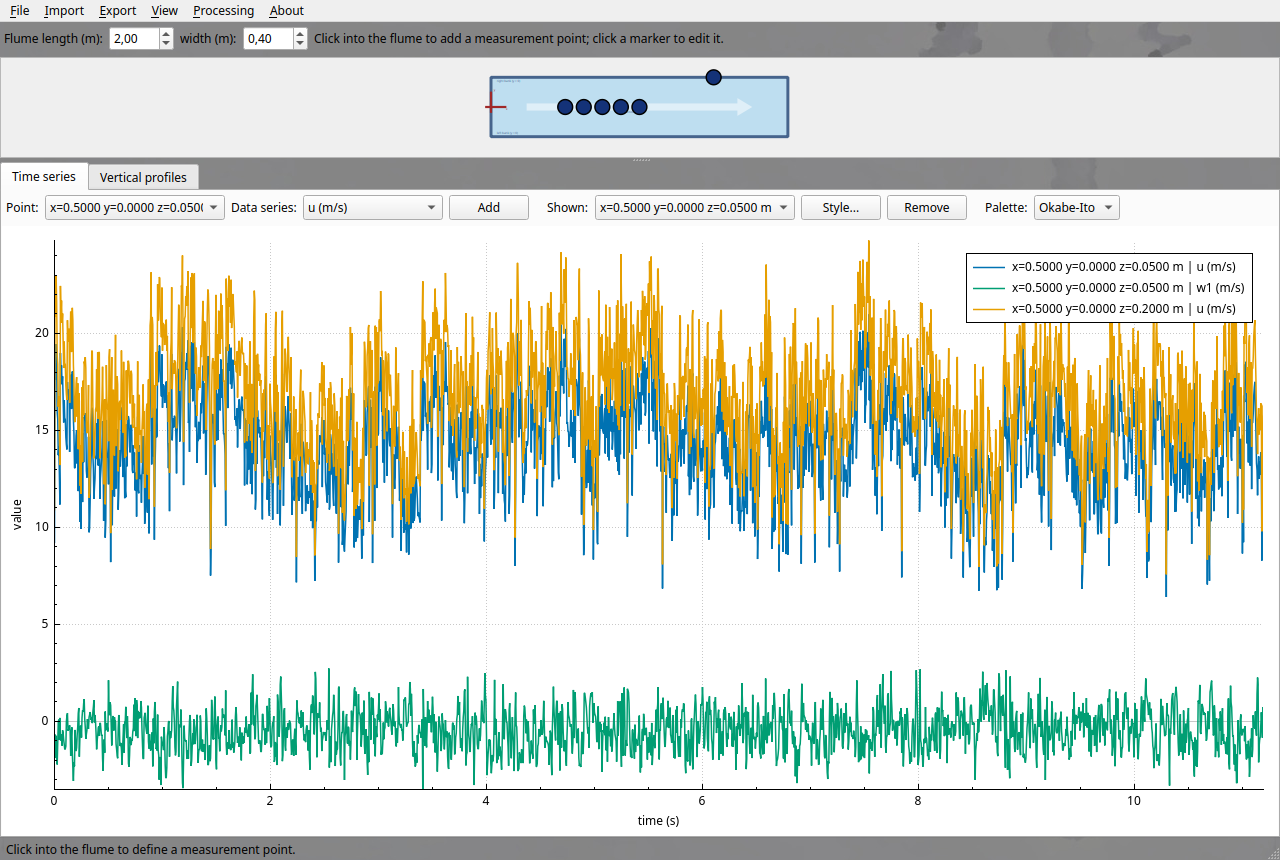
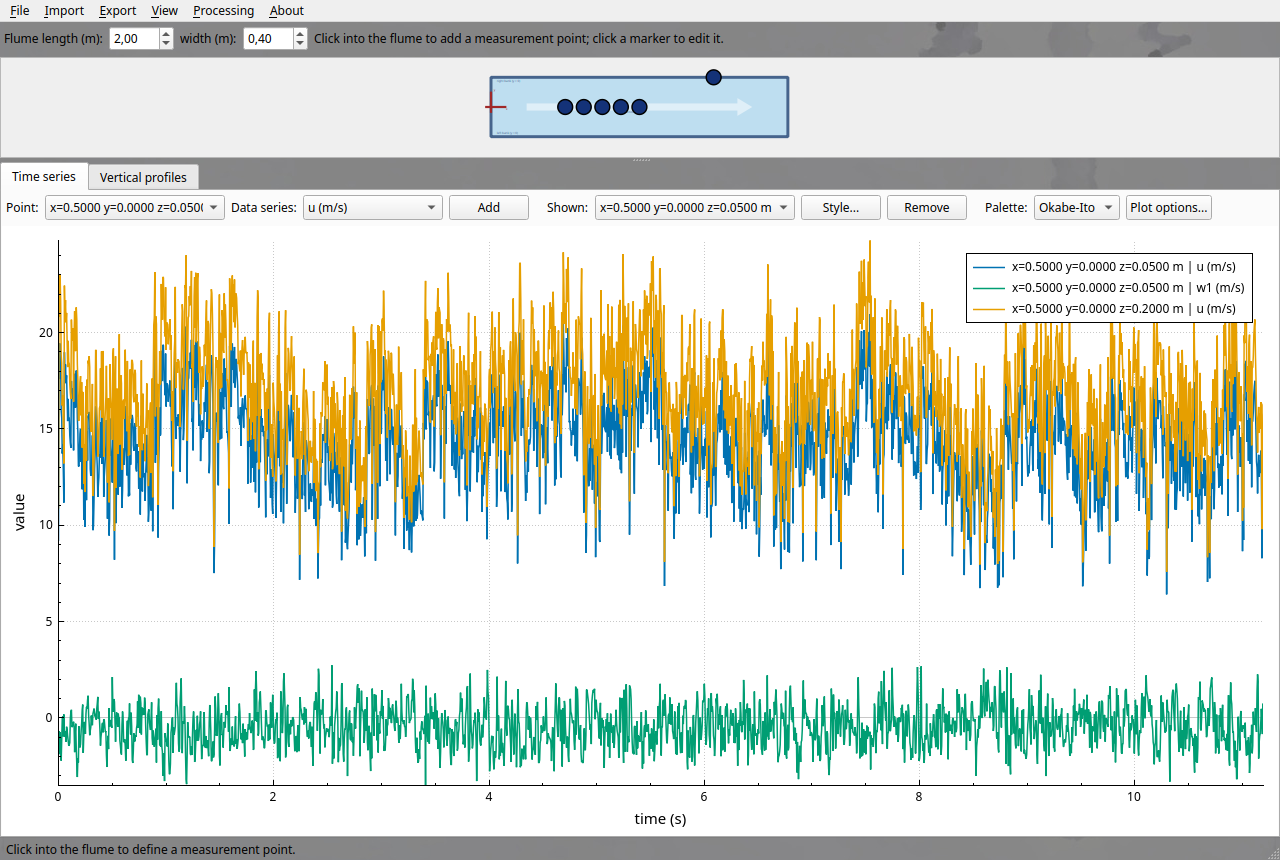
Fix Goring & Nikora label and add per-frame plot options
- PointWizard: the form-row label has no buddy widget, so "&&" rendered
  literally; use a single ampersand
- new Plot options dialog on time-series and profile frames: axis label
  and tick fonts (system font families, point sizes), tick mark toggle,
  and grid style (visibility, line style, width, color); applied live so
  PNG exports render exactly as styled; persisted in .advProj plot state
- regenerated documentation screenshots

diff --git a/src/gui/PlotOptionsDialog.cpp b/src/gui/PlotOptionsDialog.cpp
@@ -1,0 +1,149 @@
+/*
+ * ADV-Explorer - interactive analysis of ADV measurements
+ * Copyright (C) 2026 Sebastian Schwindt
+ * Licensed under the GNU General Public License v3 or later.
+ */
+#include "PlotOptionsDialog.h"
+
+#include <qcustomplot.h>
+
+#include <QCheckBox>
+#include <QColorDialog>
+#include <QComboBox>
+#include <QDialogButtonBox>
+#include <QDoubleSpinBox>
+#include <QFontComboBox>
+#include <QFormLayout>
+#include <QGuiApplication>
+#include <QPushButton>
+
+void PlotOptions::applyTo(QCustomPlot *plot) const
+{
+    QFont labelFont = QGuiApplication::font();
+    if (!fontFamily.isEmpty())
+        labelFont.setFamily(fontFamily);
+    QFont tickFont = labelFont;
+    labelFont.setPointSizeF(labelFontSize);
+    tickFont.setPointSizeF(tickFontSize);
+
+    const QPen gridPen(gridColor, gridWidth, gridStyle);
+    for (QCPAxis *axis : {plot->xAxis, plot->yAxis}) {
+        axis->setLabelFont(labelFont);
+        axis->setTickLabelFont(tickFont);
+        axis->setTicks(ticksVisible);
+        axis->grid()->setVisible(gridVisible);
+        axis->grid()->setPen(gridPen);
+    }
+    if (plot->legend)
+        plot->legend->setFont(tickFont);
+}
+
+QJsonObject PlotOptions::toJson() const
+{
+    QJsonObject o;
+    o[QStringLiteral("fontFamily")] = fontFamily;
+    o[QStringLiteral("labelFontSize")] = labelFontSize;
+    o[QStringLiteral("tickFontSize")] = tickFontSize;
+    o[QStringLiteral("ticksVisible")] = ticksVisible;
+    o[QStringLiteral("gridVisible")] = gridVisible;
+    o[QStringLiteral("gridStyle")] = int(gridStyle);
+    o[QStringLiteral("gridWidth")] = gridWidth;
+    o[QStringLiteral("gridColor")] = gridColor.name();
+    return o;
+}
+
+PlotOptions PlotOptions::fromJson(const QJsonObject &o)
+{
+    PlotOptions p;
+    p.fontFamily = o[QStringLiteral("fontFamily")].toString();
+    p.labelFontSize = o[QStringLiteral("labelFontSize")].toDouble(11.0);
+    p.tickFontSize = o[QStringLiteral("tickFontSize")].toDouble(9.0);
+    p.ticksVisible = o[QStringLiteral("ticksVisible")].toBool(true);
+    p.gridVisible = o[QStringLiteral("gridVisible")].toBool(true);
+    p.gridStyle = Qt::PenStyle(o[QStringLiteral("gridStyle")].toInt(int(Qt::DotLine)));
+    p.gridWidth = o[QStringLiteral("gridWidth")].toDouble(1.0);
+    p.gridColor = QColor(o[QStringLiteral("gridColor")].toString(p.gridColor.name()));
+    return p;
+}
+
+PlotOptionsDialog::PlotOptionsDialog(const PlotOptions &options, QWidget *parent)
+    : QDialog(parent)
+    , m_options(options)
+{
+    setWindowTitle(tr("Plot options"));
+    auto *form = new QFormLayout(this);
+
+    m_fontCombo = new QFontComboBox(this);
+    if (!m_options.fontFamily.isEmpty())
+        m_fontCombo->setCurrentFont(QFont(m_options.fontFamily));
+    else
+        m_fontCombo->setCurrentFont(QGuiApplication::font());
+    form->addRow(tr("Axis font:"), m_fontCombo);
+
+    m_labelSizeSpin = new QDoubleSpinBox(this);
+    m_labelSizeSpin->setRange(4.0, 48.0);
+    m_labelSizeSpin->setSuffix(QStringLiteral(" pt"));
+    m_labelSizeSpin->setValue(m_options.labelFontSize);
+    form->addRow(tr("Axis label size:"), m_labelSizeSpin);
+
+    m_tickSizeSpin = new QDoubleSpinBox(this);
+    m_tickSizeSpin->setRange(4.0, 48.0);
+    m_tickSizeSpin->setSuffix(QStringLiteral(" pt"));
+    m_tickSizeSpin->setValue(m_options.tickFontSize);
+    form->addRow(tr("Tick label size:"), m_tickSizeSpin);
+
+    m_ticksCheck = new QCheckBox(tr("show tick marks"), this);
+    m_ticksCheck->setChecked(m_options.ticksVisible);
+    form->addRow(tr("Ticks:"), m_ticksCheck);
+
+    m_gridCheck = new QCheckBox(tr("show grid"), this);
+    m_gridCheck->setChecked(m_options.gridVisible);
+    form->addRow(tr("Grid:"), m_gridCheck);
+
+    m_gridStyleCombo = new QComboBox(this);
+    m_gridStyleCombo->addItem(tr("solid"), int(Qt::SolidLine));
+    m_gridStyleCombo->addItem(tr("dotted"), int(Qt::DotLine));
+    m_gridStyleCombo->addItem(tr("dashed"), int(Qt::DashLine));
+    m_gridStyleCombo->addItem(tr("dash-dot"), int(Qt::DashDotLine));
+    m_gridStyleCombo->setCurrentIndex(
+        m_gridStyleCombo->findData(int(m_options.gridStyle)));
+    form->addRow(tr("Grid style:"), m_gridStyleCombo);
+
+    m_gridWidthSpin = new QDoubleSpinBox(this);
+    m_gridWidthSpin->setRange(0.5, 10.0);
+    m_gridWidthSpin->setSingleStep(0.5);
+    m_gridWidthSpin->setValue(m_options.gridWidth);
+    form->addRow(tr("Grid line width:"), m_gridWidthSpin);
+
+    m_gridColorButton = new QPushButton(m_options.gridColor.name(), this);
+    m_gridColorButton->setStyleSheet(
+        QStringLiteral("background-color: %1").arg(m_options.gridColor.name()));
+    connect(m_gridColorButton, &QPushButton::clicked, this, [this]() {
+        const QColor chosen = QColorDialog::getColor(m_options.gridColor, this);
+        if (chosen.isValid()) {
+            m_options.gridColor = chosen;
+            m_gridColorButton->setText(chosen.name());
+            m_gridColorButton->setStyleSheet(
+                QStringLiteral("background-color: %1").arg(chosen.name()));
+        }
+    });
+    form->addRow(tr("Grid color:"), m_gridColorButton);
+
+    auto *buttons = new QDialogButtonBox(QDialogButtonBox::Ok | QDialogButtonBox::Cancel, this);
+    connect(buttons, &QDialogButtonBox::accepted, this, &QDialog::accept);
+    connect(buttons, &QDialogButtonBox::rejected, this, &QDialog::reject);
+    form->addRow(buttons);
+}
+
+PlotOptions PlotOptionsDialog::options() const
+{
+    PlotOptions o = m_options;
+    o.fontFamily = m_fontCombo->currentFont().family();
+    o.labelFontSize = m_labelSizeSpin->value();
+    o.tickFontSize = m_tickSizeSpin->value();
+    o.ticksVisible = m_ticksCheck->isChecked();
+    o.gridVisible = m_gridCheck->isChecked();
+    o.gridStyle = Qt::PenStyle(m_gridStyleCombo->currentData().toInt());
+    o.gridWidth = m_gridWidthSpin->value();
+    return o;
+}

diff --git a/src/gui/PlotOptionsDialog.h b/src/gui/PlotOptionsDialog.h
@@ -1,0 +1,56 @@
+/*
+ * ADV-Explorer - interactive analysis of ADV measurements
+ * Copyright (C) 2026 Sebastian Schwindt
+ * Licensed under the GNU General Public License v3 or later.
+ */
+#pragma once
+
+#include <QColor>
+#include <QDialog>
+#include <QJsonObject>
+
+class QCheckBox;
+class QComboBox;
+class QCustomPlot;
+class QDoubleSpinBox;
+class QFontComboBox;
+class QPushButton;
+
+/// Axis and grid appearance of one plot frame. Applied live, so PNG exports
+/// render exactly as styled.
+struct PlotOptions {
+    QString fontFamily;             ///< empty = application default font
+    double labelFontSize = 11.0;    ///< axis label (title) size in points
+    double tickFontSize = 9.0;      ///< tick number size in points
+    bool ticksVisible = true;       ///< draw tick marks on the axes
+    bool gridVisible = true;
+    Qt::PenStyle gridStyle = Qt::DotLine;
+    double gridWidth = 1.0;
+    QColor gridColor = QColor(200, 200, 200);
+
+    void applyTo(QCustomPlot *plot) const;
+    QJsonObject toJson() const;
+    static PlotOptions fromJson(const QJsonObject &json);
+};
+
+/// Dialog editing axis label/tick fonts (size and system-available families)
+/// and the tick/grid style of a plot frame.
+class PlotOptionsDialog : public QDialog
+{
+    Q_OBJECT
+public:
+    explicit PlotOptionsDialog(const PlotOptions &options, QWidget *parent = nullptr);
+
+    PlotOptions options() const;
+
+private:
+    PlotOptions m_options;
+    QFontComboBox *m_fontCombo;
+    QDoubleSpinBox *m_labelSizeSpin;
+    QDoubleSpinBox *m_tickSizeSpin;
+    QCheckBox *m_ticksCheck;
+    QCheckBox *m_gridCheck;
+    QComboBox *m_gridStyleCombo;
+    QDoubleSpinBox *m_gridWidthSpin;
+    QPushButton *m_gridColorButton;
+};

diff --git a/src/gui/PlotFrame.cpp b/src/gui/PlotFrame.cpp
@@ -70,12 +70,15 @@ PlotFrame::PlotFrame(ProjectModel *model, QWidget *parent)
     m_paletteCombo = new QComboBox(this);
     m_paletteCombo->addItems({tr("Okabe-Ito"), tr("Tol bright"), tr("Tol muted"), tr("Grayscale")});
     toolbar->addWidget(m_paletteCombo);
+    auto *optionsButton = new QPushButton(tr("Plot options..."), this);
+    toolbar->addWidget(optionsButton);
     toolbar->addStretch();
 
     m_plot->setInteractions(QCP::iRangeDrag | QCP::iRangeZoom | QCP::iSelectLegend);
     m_plot->legend->setVisible(true);
     m_plot->xAxis->setLabel(tr("time (s)"));
     m_plot->yAxis->setLabel(tr("value"));
+    m_plotOptions.applyTo(m_plot);
 
     auto *layout = new QVBoxLayout(this);
     layout->setContentsMargins(0, 0, 0, 0);
@@ -85,6 +88,7 @@ PlotFrame::PlotFrame(ProjectModel *model, QWidget *parent)
     connect(addButton, &QPushButton::clicked, this, &PlotFrame::addSeries);
     connect(removeButton, &QPushButton::clicked, this, &PlotFrame::removeSelectedSeries);
     connect(styleButton, &QPushButton::clicked, this, &PlotFrame::editSelectedStyle);
+    connect(optionsButton, &QPushButton::clicked, this, &PlotFrame::editPlotOptions);
     connect(m_pointCombo, &QComboBox::currentIndexChanged,
             this, &PlotFrame::pointSelectionChanged);
     connect(m_paletteCombo, &QComboBox::currentIndexChanged, this, &PlotFrame::applyPalette);
@@ -220,6 +224,16 @@ void PlotFrame::editSelectedStyle()
     }
 }
 
+void PlotFrame::editPlotOptions()
+{
+    PlotOptionsDialog dialog(m_plotOptions, this);
+    if (dialog.exec() == QDialog::Accepted) {
+        m_plotOptions = dialog.options();
+        m_plotOptions.applyTo(m_plot);
+        m_plot->replot();
+    }
+}
+
 void PlotFrame::applyPalette()
 {
     const QList<QColor> colors = paletteColors();
@@ -321,6 +335,7 @@ QJsonObject PlotFrame::saveState() const
 {
     QJsonObject state;
     state[QStringLiteral("palette")] = m_paletteCombo->currentIndex();
+    state[QStringLiteral("plotOptions")] = m_plotOptions.toJson();
     QJsonArray seriesArray;
     for (const Series &series : m_series) {
         QJsonObject o;
@@ -336,6 +351,10 @@ QJsonObject PlotFrame::saveState() const
 void PlotFrame::restoreState(const QJsonObject &state)
 {
     m_paletteCombo->setCurrentIndex(state[QStringLiteral("palette")].toInt(0));
+    if (state.contains(QStringLiteral("plotOptions"))) {
+        m_plotOptions = PlotOptions::fromJson(state[QStringLiteral("plotOptions")].toObject());
+        m_plotOptions.applyTo(m_plot);
+    }
     m_series.clear();
     for (const QJsonValue &value : state[QStringLiteral("series")].toArray()) {
         const QJsonObject o = value.toObject();

diff --git a/src/gui/ProfileFrame.cpp b/src/gui/ProfileFrame.cpp
@@ -136,12 +136,15 @@ ProfileFrame::ProfileFrame(ProjectModel *model, QWidget *parent)
     toolbar->addSpacing(12);
     auto *correctionButton = new QPushButton(tr("Probe alignment..."), this);
     toolbar->addWidget(correctionButton);
+    auto *optionsButton = new QPushButton(tr("Plot options..."), this);
+    toolbar->addWidget(optionsButton);
     toolbar->addStretch();
 
     m_plot->setInteractions(QCP::iRangeDrag | QCP::iRangeZoom);
     m_plot->legend->setVisible(true);
     m_plot->xAxis->setLabel(tr("velocity (m/s)"));
     m_plot->yAxis->setLabel(tr("z (m)"));
+    m_plotOptions.applyTo(m_plot);
 
     // top-right statistics legend panel
     m_statsPanel = new QPlainTextEdit(this);
@@ -168,6 +171,7 @@ ProfileFrame::ProfileFrame(ProjectModel *model, QWidget *parent)
         connect(check, &QCheckBox::toggled, this, &ProfileFrame::rebuildPlot);
     connect(m_zRadio, &QRadioButton::toggled, this, &ProfileFrame::rebuildPlot);
     connect(correctionButton, &QPushButton::clicked, this, &ProfileFrame::openCorrectionDialog);
+    connect(optionsButton, &QPushButton::clicked, this, &ProfileFrame::editPlotOptions);
 
     connect(m_model, &ProjectModel::pointAdded, this, &ProfileFrame::refresh);
     connect(m_model, &ProjectModel::pointChanged, this, &ProfileFrame::refresh);
@@ -329,6 +333,16 @@ void ProfileFrame::openCorrectionDialog()
         m_model->setCorrection(key, dialog.angles());
 }
 
+void ProfileFrame::editPlotOptions()
+{
+    PlotOptionsDialog dialog(m_plotOptions, this);
+    if (dialog.exec() == QDialog::Accepted) {
+        m_plotOptions = dialog.options();
+        m_plotOptions.applyTo(m_plot);
+        m_plot->replot();
+    }
+}
+
 bool ProfileFrame::exportPng(const QString &filePath, int dpi)
 {
     const double scale = dpi / 96.0;
@@ -343,6 +357,7 @@ QJsonObject ProfileFrame::saveState() const
     state[QStringLiteral("v")] = m_vCheck->isChecked();
     state[QStringLiteral("w")] = m_wCheck->isChecked();
     state[QStringLiteral("relative")] = m_zhRadio->isChecked();
+    state[QStringLiteral("plotOptions")] = m_plotOptions.toJson();
     return state;
 }
 
@@ -355,5 +370,9 @@ void ProfileFrame::restoreState(const QJsonObject &state)
     m_vCheck->setChecked(state[QStringLiteral("v")].toBool(true));
     m_wCheck->setChecked(state[QStringLiteral("w")].toBool(true));
     m_zhRadio->setChecked(state[QStringLiteral("relative")].toBool(false));
+    if (state.contains(QStringLiteral("plotOptions"))) {
+        m_plotOptions = PlotOptions::fromJson(state[QStringLiteral("plotOptions")].toObject());
+        m_plotOptions.applyTo(m_plot);
+    }
     rebuildPlot();
 }

diff --git a/src/gui/PointWizard.cpp b/src/gui/PointWizard.cpp
@@ -195,7 +195,9 @@ void PointWizard::buildUi(bool editMode)
     m_gnKSpin->setValue(3.0);
     gnRow->addWidget(m_gnKSpin);
     gnRow->addStretch();
-    despikeForm->addRow(tr("Goring && Nikora (2002):"), gnRow);
+    // literal ampersand: this label has no buddy widget, so QFormLayout does
+    // not run mnemonic processing and "&&" would render as a double ampersand
+    despikeForm->addRow(tr("Goring & Nikora (2002):"), gnRow);
 
     m_pstCheck = new QCheckBox(tr("Phase-space thresholding (iterative)"), this);
     despikeForm->addRow(m_pstCheck);

diff --git a/src/gui/ProfileFrame.h b/src/gui/ProfileFrame.h
@@ -5,6 +5,8 @@
  */
 #pragma once
 
+#include "PlotOptionsDialog.h"
+
 #include <QJsonObject>
 #include <QWidget>
 
@@ -39,6 +41,7 @@ public slots:
 private slots:
     void rebuildPlot();
     void openCorrectionDialog();
+    void editPlotOptions();
 
 private:
     QString currentProfileKey() const;
@@ -52,4 +55,5 @@ private:
     QRadioButton *m_zRadio;
     QRadioButton *m_zhRadio;
     QPlainTextEdit *m_statsPanel;
+    PlotOptions m_plotOptions;
 };

diff --git a/src/gui/PlotFrame.h b/src/gui/PlotFrame.h
@@ -5,6 +5,7 @@
  */
 #pragma once
 
+#include "PlotOptionsDialog.h"
 #include "SeriesStyleDialog.h"
 
 #include <QJsonObject>
@@ -49,6 +50,7 @@ private slots:
     void addSeries();
     void removeSelectedSeries();
     void editSelectedStyle();
+    void editPlotOptions();
     void pointSelectionChanged();
     void applyPalette();
 
@@ -74,4 +76,5 @@ private:
     QComboBox *m_seriesCombo;
     QComboBox *m_paletteCombo;
     QList<Series> m_series;
+    PlotOptions m_plotOptions;
 };